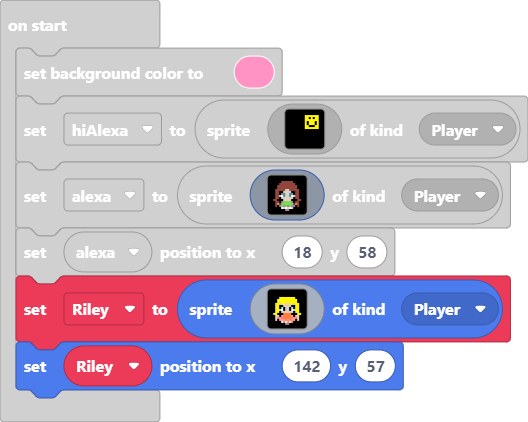
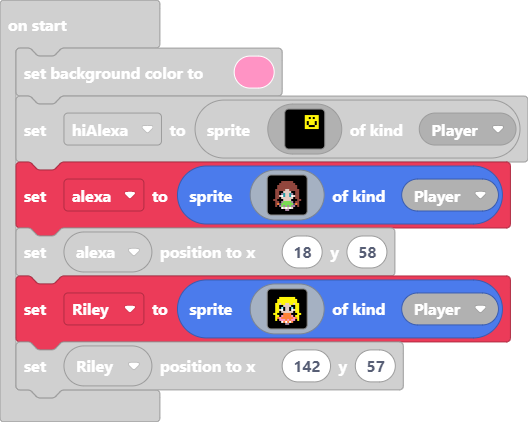
Update main.blocks, main.ts

diff --git a/main.ts b/main.ts
@@ -48,9 +48,9 @@ let Riley = sprites.create(img`
     . f 5 5 d 1 f d d f 1 d 5 5 f . 
     f f 5 5 f d d d d d d f 5 5 f f 
     f 5 5 f f f 4 4 4 4 f f f 5 5 f 
-    . f d d f 3 4 4 4 4 3 f d d f . 
-    . . d 4 3 4 4 4 4 4 4 3 4 d . . 
-    . . d f 3 3 3 4 3 4 3 3 f d . . 
+    . f 5 5 f 3 4 4 4 4 3 f 5 5 f . 
+    . . 5 4 3 4 4 4 4 4 4 3 4 5 . . 
+    . . 5 f 3 3 3 4 3 4 3 3 f 5 . . 
     . . . f f 1 4 1 4 1 4 f f . . . 
     . . . . . f f b b f f . . . . . 
     `, SpriteKind.Player)
